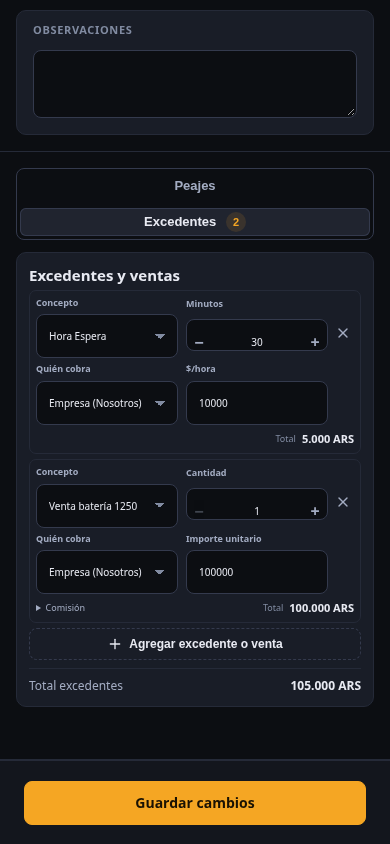
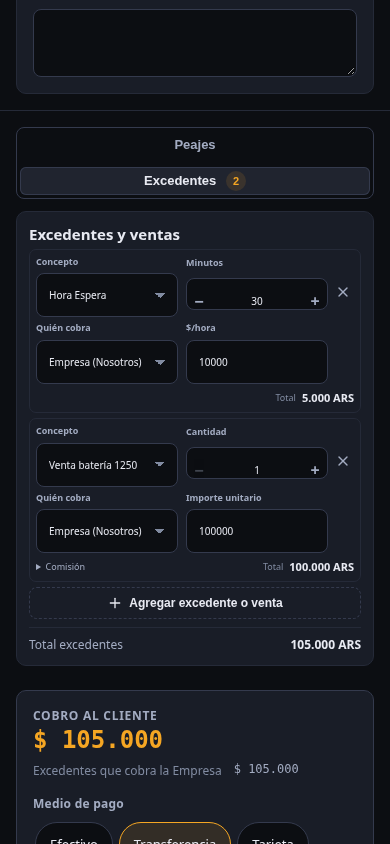
Show customer collection immediately when collector is selected

diff --git a/operator-service-commercial-addons-v1.js b/operator-service-commercial-addons-v1.js
@@ -100,14 +100,15 @@ const actionTabs=c=>`<div class="osca-actions${historyAllowed()?' has-history':'
 function addDetectedTollsAdmin(items){const c=commercial(),payer=fixedPayer(c.toll_coverage_mode);let added=0,skipped=0;for(const it of items||[]){if(!it?.toll_id||c.tolls.some(r=>String(r.toll_id)===String(it.toll_id))){skipped++;continue;}const {location,rate}=rateFor(it.toll_id),quantity=Math.max(1,Math.round(num(it.quantity)||1)),unit=num(rate?.amount);c.tolls.push({review_line_client_id:crypto.randomUUID(),toll_id:it.toll_id,toll_name:location?.name||'',quantity,unit_amount:unit,total_amount:quantity*unit,currency:rate?.currency||'ARS',payer_agent:payer,customer_payment_method:''});added++;}if(added){W().dirty=true;W().quote=null;}render();return{added,skipped};}
 /* Los campos de las filas ya no llevan el rótulo a la vista (ahorra espacio): cada uno lo conserva para lectores de pantalla y al pasar el mouse. */
 function labelFields(){document.querySelectorAll('.osv4-reactive .osca-matrix-row > [data-label]').forEach(box=>{const name=box.dataset.label,control=box.querySelector('select,input');if(control&&!control.getAttribute('aria-label')){control.setAttribute('aria-label',name);if(!control.title)control.title=name;}});}
-function customerPaymentProps(){const o=O(),c=commercial(),tolls=o?.commercialCustomerTollTotal?.()||0,excess=o?.commercialCompanyExcessTotal?.()||0;return{total:o?.customerPaymentTotal?.()||0,breakdown:[{label:'Peajes del cliente',amount:tolls},{label:'Excedentes que cobra la Empresa',amount:excess}],value:c.customer_payment||{},allowToDefine:!W()?.administrativeEdit,allowNotCollected:!!W()?.administrativeEdit,disabled:readOnly(),showErrors:!!state.missing,hint:'Un solo cobro para todo lo que paga el cliente. Si pagó con dos medios, cargá cuánto fue con el segundo.',onChange:next=>{o?.setCustomerPayment?.(next);paintCustomerPayment();}};}
-function paintCustomerPayment(){const slot=document.getElementById('osca-customer-payment');if(slot&&window.AuxiliosCustomerPayment)window.AuxiliosCustomerPayment.render(slot,customerPaymentProps());}
+function hasCustomerCharges(){const c=commercial();return(c.tolls||[]).some(r=>r.payer_agent==='customer')||(c.excess_charges||[]).some(r=>r.collector_agent==='company');}
+function customerPaymentProps(){const o=O(),c=commercial(),tolls=o?.commercialCustomerTollTotal?.()||0,excess=o?.commercialCompanyExcessTotal?.()||0;return{pendingTotal:hasCustomerCharges(),total:o?.customerPaymentTotal?.()||0,breakdown:[{label:'Peajes del cliente',amount:tolls},{label:'Excedentes que cobra la Empresa',amount:excess}],value:c.customer_payment||{},allowToDefine:!W()?.administrativeEdit,allowNotCollected:!!W()?.administrativeEdit,disabled:readOnly(),showErrors:!!state.missing,hint:'Un solo cobro para todo lo que paga el cliente. Si pagó con dos medios, cargá cuánto fue con el segundo.',onChange:next=>{o?.setCustomerPayment?.(next);paintCustomerPayment();}};}
+function paintCustomerPayment(){const slot=document.getElementById('osca-customer-payment');if(!slot)return;slot.hidden=!hasCustomerCharges()&&!(O()?.customerPaymentTotal?.()>0);if(window.AuxiliosCustomerPayment)window.AuxiliosCustomerPayment.render(slot,customerPaymentProps());}
 /* Corrección administrativa (remito firmado): misma pantalla que Nuevo servicio y, abajo, los cargos del remito para comparar. */
 function administrativeReport(){const w=W();if(!w?.administrativeEdit||w.intakeActivated)return'';return`<details class="osaa-original" ${(state.reportOpen??reportOpenByDefault(w))?'open':''}><summary>Cargos del remito firmado</summary>${(()=>{const review=window.AuxiliosRemitoReviewV2?.reviewReport?.();return review?review+reportedPayment(w.reportedAddons):reportedCharges(w.reportedAddons);})()}</details>`;}
 function render(){const w=W();if(w&&!state.autoOpened&&w.mode==='create'&&!w.administrativeEdit&&!(w.intakeId&&!w.intakeActivated)){state.autoOpened=true;if(state.open==null)state.open='tolls';}renderInner();labelFields();/* Listas con el aspecto del sistema (como el resto de los formularios). */document.querySelectorAll('.osv4-reactive .osca-panel select:not([data-ax-enhanced])').forEach(x=>window.AxUI?.select?.(x));}
 function renderInner(){const w=W(),column=document.querySelector('.osv4-reactive .actions-column');if(!w||!column)return;state.reportOpen=column.querySelector('details.osaa-original')?.open??state.reportOpen;const classification=document.getElementById('osv4-activation-classification');classification?.remove();const review=column.querySelector('#osv4-review-slot');review?.remove();/* El historial vive en esta columna y se conserva al repintarla. */const history=column.querySelector('#osv4-history-panel');state.historyAllowed=history?history.dataset.allowed==='true':state.historyAllowed;history?.remove();/* Interruptores sí/no (Pinacars): se conservan al repintar. */const toggles=column.querySelector('#osv4-toggles');toggles?.remove();/* Tercerizado: también se conserva, arriba de todo. */const terc=column.querySelector('#osv4-terc');terc?.remove();/* Cobro al cliente (React): se conserva el nodo para no perder el estado del componente. */const cpSlot=column.querySelector('#osca-customer-payment');cpSlot?.remove();const restoreReview=()=>{if(toggles)column.prepend(toggles);if(terc)column.prepend(terc);if(classification)column.append(classification);column.append(review||Object.assign(document.createElement('div'),{id:'osv4-review-slot',className:'osv4-review-slot'}));if(history){history.hidden=!(history.dataset.allowed==='true'&&state.open==='history');column.append(history);}};const c=commercial(),disabled=readOnly(),provider=O()?.commercialProviderTollTotal?.()||0,customer=O()?.commercialCustomerTollTotal?.()||0,excess=O()?.commercialCustomerExcessTotal?.()||0;column.innerHTML=`${activationCard()}${W()?.serviceSnapshot?.driver_activated||w.administrativeEdit?'':remitoCard()}${actionTabs(c)}
  ${state.open==='tolls'?`<section class="osca-panel tolls">${coverageControl(c,disabled)}${tollMatrix(c)}${actualTolls()}${c.tolls.length?`<div class="osca-summary"><span>A cargo de la Prestadora</span><b>${money(provider)}</b><span>A cargo del cliente</span><b>${money(customer)}</b></div>`:''}</section>`:''}
- ${state.open==='excess'?`<section class="osca-panel excess">${excessMatrix(c)}${c.excess_charges.length?`<div class="osca-summary single"><span>Total excedentes</span><b data-excess-summary>${money(excess)}</b></div>`:''}</section>`:''}<div id="osca-customer-payment-anchor"></div>${administrativeReport()}`;const anchor=column.querySelector('#osca-customer-payment-anchor'),slot=cpSlot||Object.assign(document.createElement('div'),{id:'osca-customer-payment',className:'osca-customer-payment'});const showCp=(O()?.customerPaymentTotal?.()||0)>0;slot.hidden=!showCp;anchor.replaceWith(slot);restoreReview();if(showCp)paintCustomerPayment();}
+ ${state.open==='excess'?`<section class="osca-panel excess">${excessMatrix(c)}${c.excess_charges.length?`<div class="osca-summary single"><span>Total excedentes</span><b data-excess-summary>${money(excess)}</b></div>`:''}</section>`:''}<div id="osca-customer-payment-anchor"></div>${administrativeReport()}`;const anchor=column.querySelector('#osca-customer-payment-anchor'),slot=cpSlot||Object.assign(document.createElement('div'),{id:'osca-customer-payment',className:'osca-customer-payment'});anchor.replaceWith(slot);restoreReview();paintCustomerPayment();}
 function onClick(event){const button=event.target.closest?.('[data-ca]');if(!button)return;const action=button.dataset.ca;if(action==='finalize-activated')return window.OperatorServiceLifecycleV2?.openActivatedFinalize?.(W()?.serviceId);if(action==='open-remito')return window.abrirRemitoFirmadoOperador?.(W()?.serviceId);if(action==='toggle-tolls'){state.open=state.open==='tolls'?null:'tolls';state.coverageEditing=false;return render();}if(action==='toggle-history'){state.open=state.open==='history'?null:'history';return render();}if(action==='toggle-excess'){state.open=state.open==='excess'?null:'excess';return render();}if(action==='change-coverage'&&!readOnly()){state.coverageEditing=true;return render();}if(readOnly())return;if(action==='coverage'){state.coverageEditing=false;return O()?.setCommercialCoverage?.(button.dataset.value||'');}if(action==='new-toll')return O()?.addCommercialToll?.();if(action==='detect-tolls'){Promise.resolve(window.AuxiliosTollDetection?.detect?.()).finally(()=>render());return;}if(action==='new-excess'){const rows=commercial().excess_charges,empty=rows.findIndex(r=>!r.concept_id);if(empty<0)O()?.addCommercialExcess?.();const index=empty<0?commercial().excess_charges.length-1:empty;const input=document.querySelector(`[data-excess-index="${index}"] [data-ca-excess-field="concept_id"]`);(input?.nextElementSibling?.querySelector('.ax-select-btn')||input)?.focus();return;}if(action==='remove-toll')return O()?.removeCommercialToll?.(Number(button.dataset.index));if(action==='duplicate-tolls')return O()?.duplicateCommercialTolls?.();if(action==='remove-excess')return O()?.removeCommercialExcess?.(Number(button.dataset.index));if(action==='toll-payer')return O()?.updateCommercialToll?.(Number(button.dataset.index),'payer_agent',button.dataset.value,true);if(action==='excess-qty'){const i=Number(button.dataset.index),row=commercial().excess_charges[i];if(!row)return;const q=excessQuantityMeta(row),value=Math.round(Math.max(q.hourly?.6:.01,(q.value||0)+q.step*Number(button.dataset.delta||0))*100)/100;return O()?.updateCommercialExcess?.(i,'quantity',q.hourly?window.AuxiliosServiceImprovements.minutesToHours(value):value,true);}if(action==='toll-qty'){const i=Number(button.dataset.index),r=commercial().tolls[i];if(!r)return;return O()?.updateCommercialToll?.(i,'quantity',Math.max(1,Math.round(num(r.quantity)||1)+Number(button.dataset.delta||0)),true);}}
 function onInput(event){if(readOnly())return;const target=event.target;if(target.dataset.caField==='unit_amount')O()?.updateCommercialToll?.(Number(target.dataset.index),'unit_amount',target.value,false);if(target.dataset.caField==='quantity')O()?.updateCommercialToll?.(Number(target.dataset.index),target.dataset.caField,target.value,false);if(['quantity','unit_amount','concept_name'].includes(target.dataset.caExcessField))O()?.updateCommercialExcess?.(Number(target.dataset.index),target.dataset.caExcessField,target.value===''?'':target.dataset.minutes==='true'?window.AuxiliosServiceImprovements.minutesToHours(target.value):target.value,false);if(target.dataset.caExcessField){const key=target.dataset.caExcessField,field=target.closest('.osca-excess-field'),errors=O()?.excessRowErrors?.(commercial().excess_charges[Number(target.dataset.index)])||{};if(!errors[key]){target.removeAttribute('aria-invalid');field?.classList.remove('is-missing');field?.querySelector('.osca-field-error')?.remove();}const summary=document.querySelector('[data-excess-summary]');if(summary)summary.textContent=money(O()?.commercialCustomerExcessTotal?.()||0);const i=Number(target.dataset.index),row=commercial().excess_charges[i],total=document.querySelector(`[data-excess-total="${i}"]`);if(total&&row)total.textContent=money(num(row.quantity)*num(row.unit_amount),row.currency);const duration=document.querySelector(`[data-excess-duration="${i}"]`);if(duration&&row)duration.textContent=window.AuxiliosServiceImprovements.duration(row.quantity)+' · tarifa por hora';paintCustomerPayment();}}
 function onChange(event){if(readOnly())return;const target=event.target;if(target.dataset.caField!==undefined)return O()?.updateCommercialToll?.(Number(target.dataset.index),target.dataset.caField,target.value,true);if(target.dataset.caExcessField!==undefined)return O()?.updateCommercialExcess?.(Number(target.dataset.index),target.dataset.caExcessField,target.value===''?'':target.dataset.minutes==='true'?window.AuxiliosServiceImprovements.minutesToHours(target.value):target.value,!['quantity','unit_amount','concept_name'].includes(target.dataset.caExcessField));}

diff --git a/ui/customer-payment-v1.js b/ui/customer-payment-v1.js
@@ -30,7 +30,7 @@ function component({React,html}){
     </div>`;
   }
   function CustomerPayment(props){
-    const {total=0,breakdown=[],value={},onChange,allowToDefine=false,allowNotCollected=false,compact=false,title='Cobro al cliente',question='',disabled=false,showErrors=false,hint=''}=props;
+    const {total=0,breakdown=[],value={},onChange,allowToDefine=false,allowNotCollected=false,compact=false,pendingTotal=false,title='Cobro al cliente',question='',disabled=false,showErrors=false,hint=''}=props;
     const v={primary:value.primary||'',secondary:value.secondary||'',secondary_amount:value.secondary_amount??''};
     const two=!!v.secondary;
     const [text,setText]=useState(v.secondary_amount===''||v.secondary_amount==null?'':String(v.secondary_amount).replace('.',','));
@@ -49,7 +49,7 @@ function component({React,html}){
     function toggleTwo(){if(!canSplit||disabled)return;if(two){setText('');emit({secondary:'',secondary_amount:''});return;}const first=secondaryOptions[0]?.[0]||'';emit({secondary:first,secondary_amount:''});requestAnimationFrame(()=>document.getElementById(uid+'-amount')?.focus({preventScroll:true}));}
     function onAmount(e){const t=e.target.value;setText(t);const n=parseAmount(t);emit({secondary_amount:Number.isFinite(n)?n:''});}
     const pct=total>0?Math.min(100,Math.max(0,secondaryAmount/total*100)):0;
-    if(!(total>0))return html`<section className=${'axcp is-empty'+(compact?' is-compact':'')} aria-label=${title}><header className="axcp-head"><div><span className="axcp-kicker">${title}</span><b className="axcp-amount">${money(0)}</b></div></header><p className="axcp-empty">No hay peajes ni excedentes a cargo del cliente.</p></section>`;
+    if(!(total>0)&&!pendingTotal)return html`<section className=${'axcp is-empty'+(compact?' is-compact':'')} aria-label=${title}><header className="axcp-head"><div><span className="axcp-kicker">${title}</span><b className="axcp-amount">${money(0)}</b></div></header><p className="axcp-empty">No hay peajes ni excedentes a cargo del cliente.</p></section>`;
     return html`<section className=${'axcp'+(compact?' is-compact':'')+(disabled?' is-disabled':'')} aria-labelledby=${uid+'-title'}>
       <header className="axcp-head">
         <div><span className="axcp-kicker" id=${uid+'-title'}>${title}</span><${Amount} value=${total} className="axcp-total"/></div>
